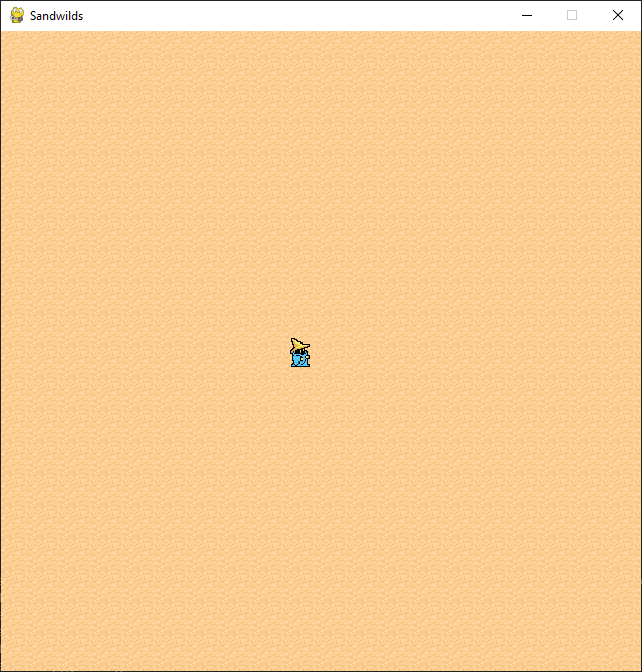
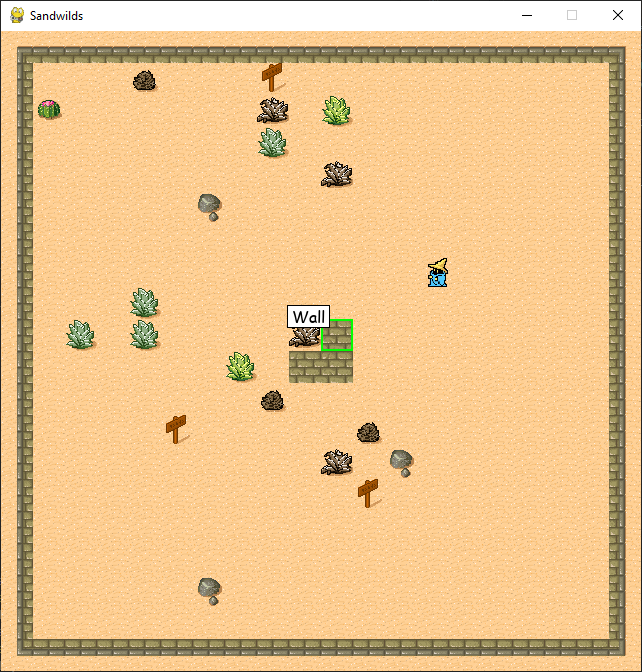
Add new features as map highlight and text cloud

diff --git a/code/map.py b/code/map.py
@@ -15,6 +15,8 @@ class Map:
 
         self.set_level(-1)
 
+        self._message_font = pygame.font.SysFont("comicsansms", FONT_SIZE)
+
     def draw(self, scene):
         scene.blit(self._tilemap.image, self._tilemap.rect)
 
@@ -49,14 +51,35 @@ class Map:
                     else:
                         rect.bottom = obstacle.rect.top
 
-    def map_highlight(self, scene, coords):
+    def mouse_activities(self, scene, mouse_pos):
+        self._map_highlight(scene, mouse_pos)
+
+    def _map_highlight(self, scene, mouse_pos):
         for obstacle in self._obstacles:
-            if obstacle.rect.collidepoint(coords):
+            if obstacle.rect.collidepoint(mouse_pos):
+
+                text = ""
+                if obstacle.tile in H1_TILES:
+                    text = "Wall"
+                elif obstacle.tile in OBSTACLES_TILES:
+                    text = f"Object {obstacle.tile}"
+                text = f" {text} "
+
+                message = self._message_font.render(text, True, BLACK)
+                message_rect = message.get_rect()
+
+                if mouse_pos[0] - message_rect.width < 0:
+                    message_rect.bottomleft = mouse_pos
+                else:
+                    message_rect.bottomright = mouse_pos
+                
                 pygame.draw.rect(scene, GREEN, obstacle, 2, 1)
 
+                pygame.draw.rect(scene, WHITE, message_rect)
+                pygame.draw.rect(scene, BLACK, message_rect, 1)
+                scene.blit(message, message_rect)
+
             
-
-
 class Block:
 
     def __init__(self, in_type, tile, map_pos, size) -> None:

diff --git a/code/game.py b/code/game.py
@@ -17,7 +17,7 @@ class Game:
         pygame.display.set_caption("Sandwilds")
 
         self.clock = pygame.time.Clock()
-        self.scene = pygame.display.set_mode((WIDTH, HIEGHT))
+        self.screen = pygame.display.set_mode((WIDTH, HIEGHT))
 
         self.map = Map()
 
@@ -52,11 +52,11 @@ class Game:
             self.map.collision(self._player.rect)
     
     def _render(self):
-        self.map.draw(self.scene)
-        self.map.map_highlight(self.scene, self.mouse_pos)
+        self.map.draw(self.screen)
+        self.map.mouse_activities(self.screen, self.mouse_pos)
         
         if self._player is not None:
-            self._player.draw(self.scene)
+            self._player.draw(self.screen)
 
         pygame.display.flip()
 

diff --git a/code/resources.py b/code/resources.py
@@ -1,6 +1,7 @@
 PLAYER_FILE = "./textures/wizard.png"
 TILE_FILE = "./textures/world_tileset.png"
 
+FONT_SIZE = 16
 
 # HOUSE T1
 H1_FULL_TILE = 9
